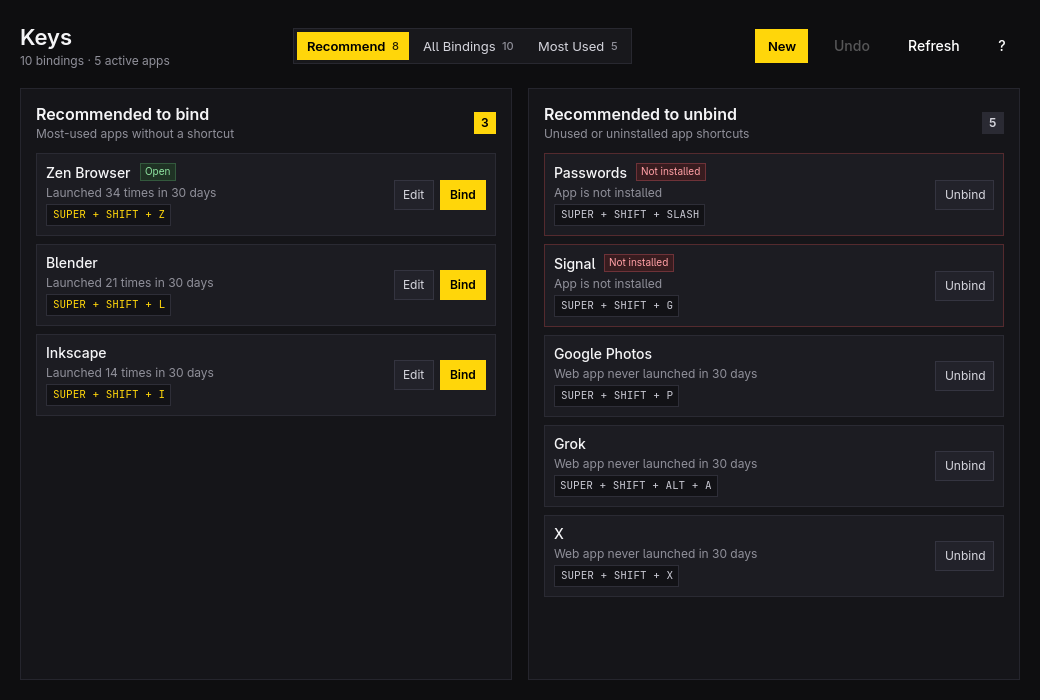
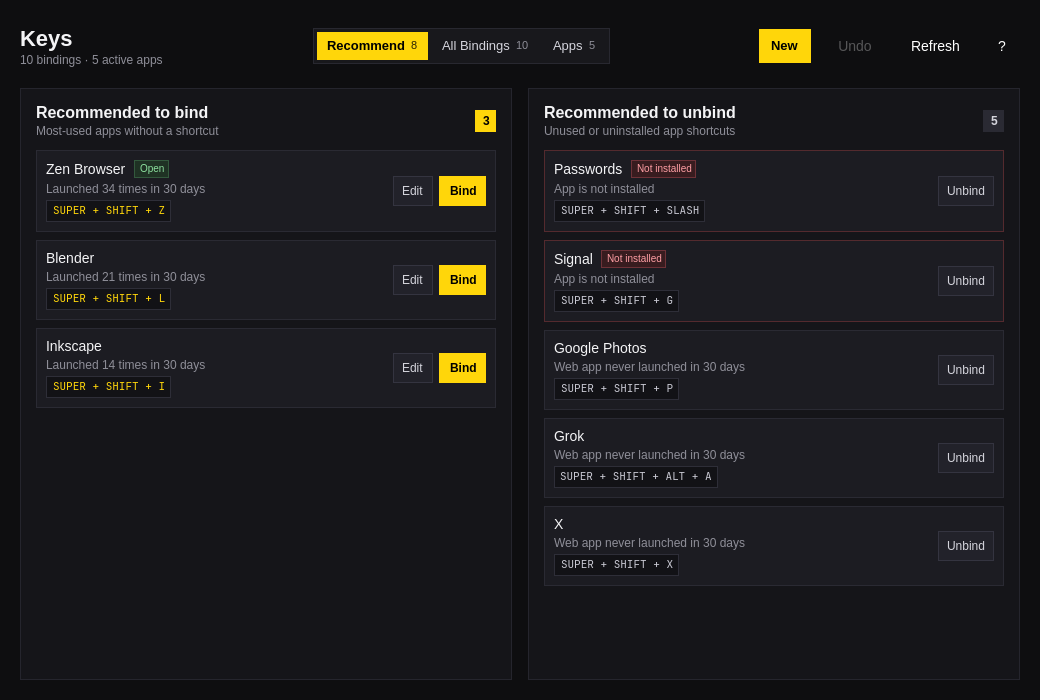
Update README and demo screenshot for v0.1.0 release

diff --git a/README.md b/README.md
@@ -2,20 +2,32 @@
 
 ![Keys screenshot](screenshot.png)
 
-Manage your Omarchy Hyprland keybindings with smart **bind** and **unbind** recommendations.
+A native Omarchy desktop app for managing Hyprland keybindings with smart **bind** and **unbind** recommendations.
 
 Keys scans your active Hyprland bindings alongside your recent application launch history (last 30 days) and open windows to highlight:
 
 - **Recommended to bind:** Your most-used apps that don't have a shortcut yet, paired with a conflict-free suggested key combo.
-- **Recommended to unbind:** Preinstalled or custom app shortcuts whose apps are not installed or haven't been launched in the last 30 days.
-- **Safe edits:** All changes are written atomically inside a managed block in `~/.config/hypr/bindings.lua` with an automatic backup, `hyprctl configerrors` validation (with rollback on error), and full Undo/Redo.
+- **Recommended to unbind:** Preinstalled or custom app shortcuts whose apps aren't installed or haven't been launched in 30 days.
+- **All Bindings & Apps:** Search every active shortcut (`super s`, `scratchpad`, etc.) to rebind or unbind, or browse and search all installed desktop apps to assign shortcuts with an interactive key recorder.
+- **Safe edits:** All changes are written atomically inside a delimited `-- >>> keys-managed` block in `~/.config/hypr/bindings.lua` with a session backup, `hyprctl configerrors` validation (with automatic rollback on error), and full Undo/Redo.
+- **Omarchy native:** Follows your Omarchy accent color, Hyprland corner rounding, and Omarchy language live (English, Danish, Spanish).
+
+## Install on Omarchy
+
+```sh
+git clone https://github.com/Mojarras7/keys.git
+cd keys
+./bin/install
+```
+
+After installing, open **Keys** from the Omarchy app launcher (`Super + Space`).
 
 ## Keyboard Shortcuts
 
 | Shortcut | Action |
 | --- | --- |
-| `1` / `2` / `3` | Switch between Recommend, All Bindings, and Most Used |
-| `/` | Search all bindings |
+| `1` / `2` / `3` | Switch between Recommend, All Bindings, and Apps |
+| `/` | Search bindings or installed apps |
 | `N` | Add a new custom shortcut |
 | `Space` | Refresh usage scan |
 | `Ctrl+Z` / `Ctrl+Shift+Z` | Undo / Redo |
@@ -31,10 +43,14 @@ keys scan --json   # Usage stats, bind recommendations, and unbind recommendatio
 keys list --json   # Active bindings and unbound overrides
 ```
 
-## Build & Install
+## Development
 
 ```sh
 ./bin/build     # Compile to build/keys
 ./bin/test      # Run the Qt Test suite offscreen
 ./bin/install   # Package and install with makepkg -fsi
 ```
+
+## License
+
+MIT — see [LICENSE](LICENSE).
